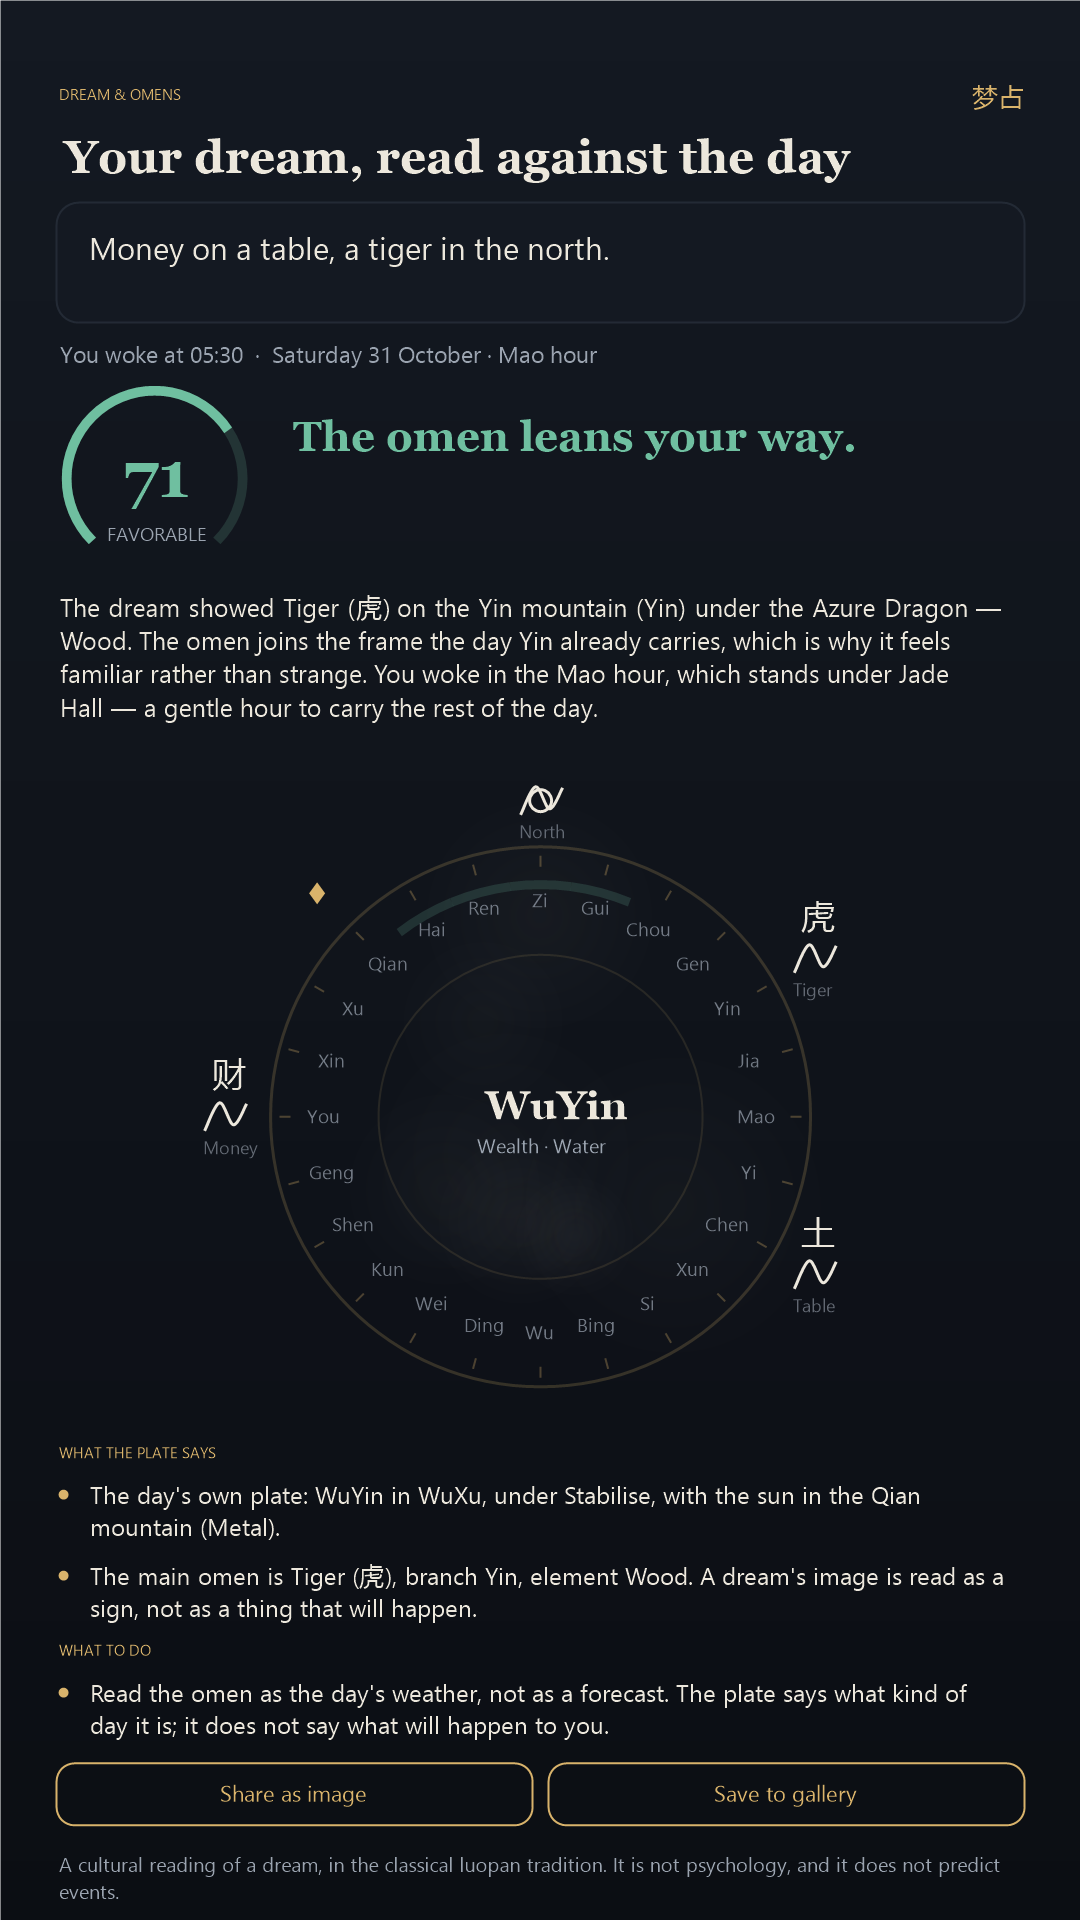
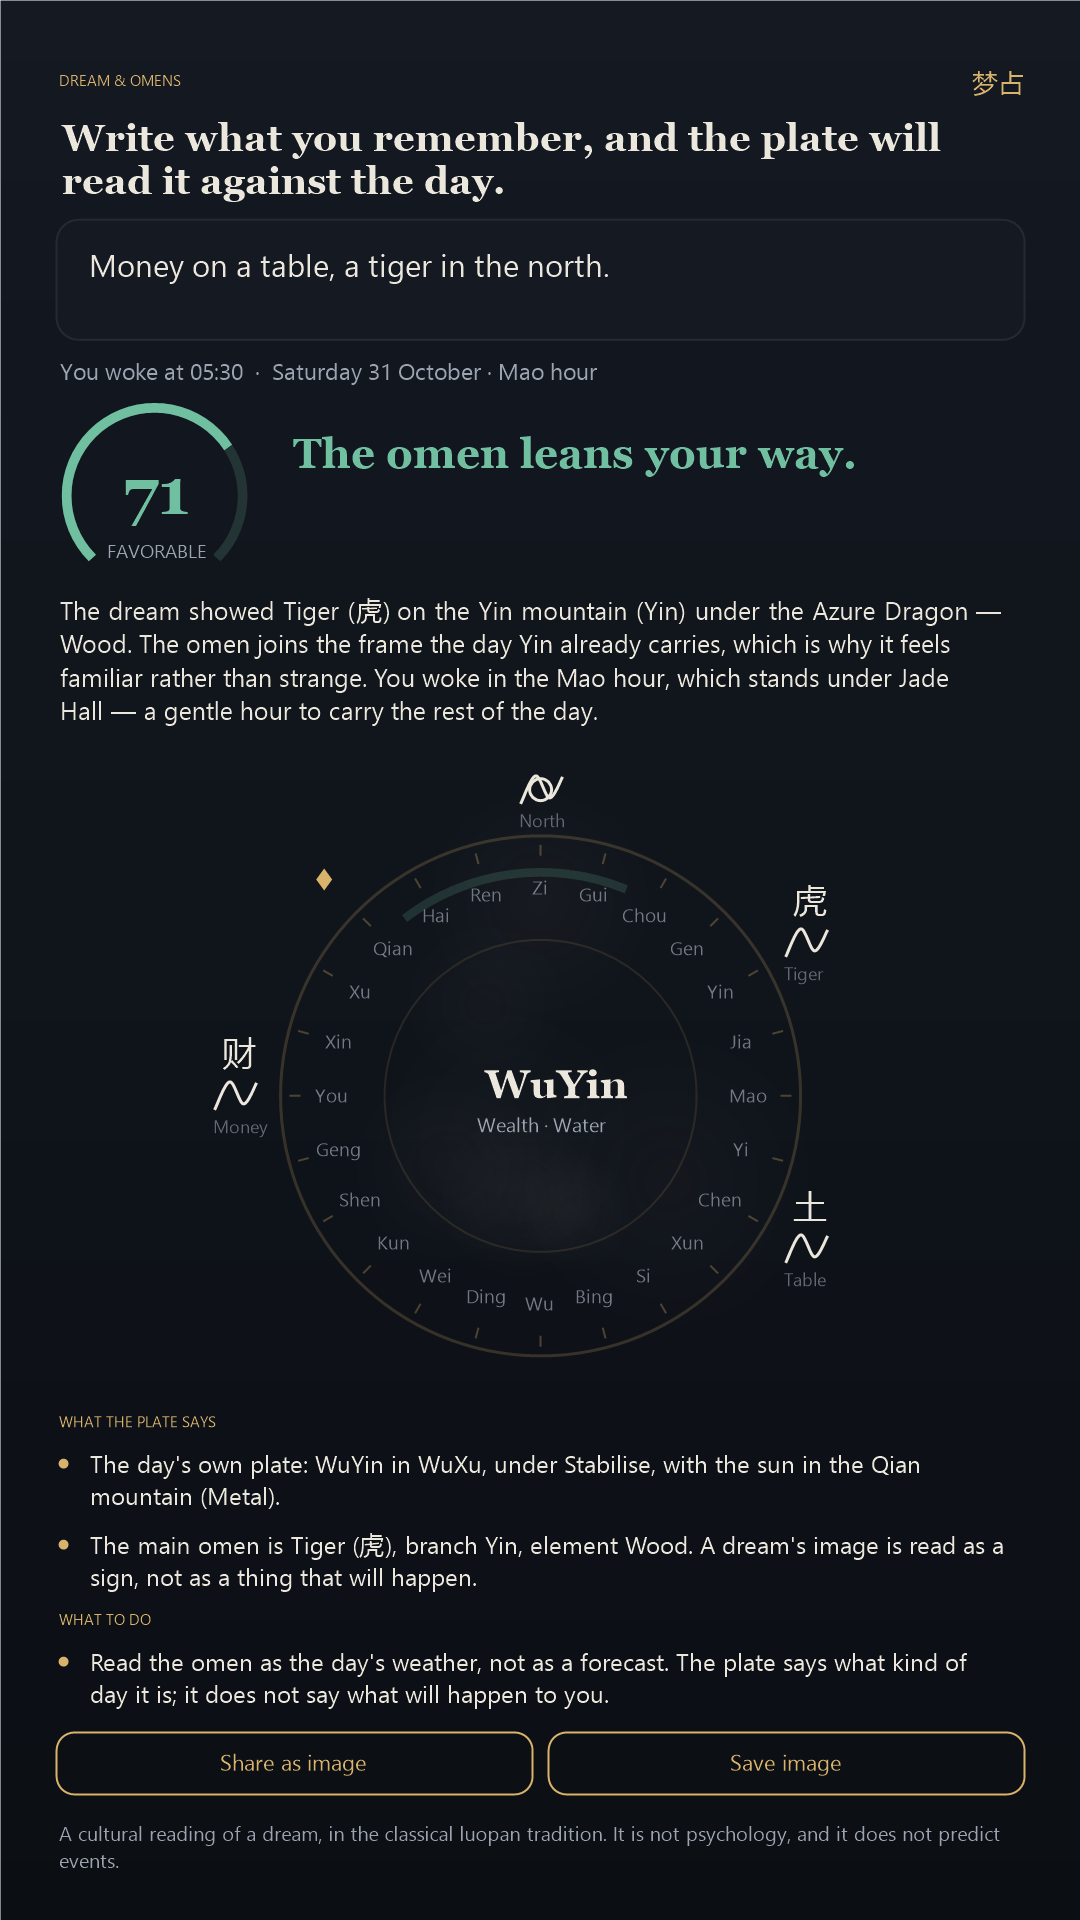
Keep the store screenshots honest about what the app says
The screenshots are drawn by a script, not captured from the app, so they
never followed it on their own - and they had drifted.

Two checks in the release gate now hold the two together:

- tools/qa/check_screenshot_sync.py reads the screenshot script and the app's
  own source and makes them agree in both directions. Every phrase the script
  draws has to exist in the app, so the store can never show a sentence the
  app does not say; and the sentences the app leads with - the free-reading
  banner, the anchor row, the paywall's benefits, the share buttons - have to
  reach the script, so a changed banner cannot leave the old one in the store.
- The gate draws the screenshots again into a scratch folder and compares the
  bytes. The render is byte-for-byte reproducible, so a PNG the current
  script no longer produces is caught.

Both directions were verified with a negative control: a script that draws
"Save to gallery" instead of the app's "Save image" fails, and so does an app
whose banner no longer matches the store.

The drift they found, fixed:

- the dream shot said "Save to gallery" while the app's button says "Save
  image";
- the dream shot led with "Your dream, read against the day", a headline the
  app never uses - it now carries the app's own title, "Write what you
  remember, and the plate will read it against the day.", wrapped over two
  lines, and the shot's spacing was tightened so the closing line still fits.
[…]

diff --git a/tools/qa/check_screenshot_sync.py b/tools/qa/check_screenshot_sync.py
@@ -1,0 +1,287 @@
+"""Checks that the store screenshots still say what the app says.
+
+The screenshots are not captures. They are drawn by
+`tools/store_assets/build_screenshots.ps1`, a GDI+ re-implementation of the
+Compose layout, and it does not follow the app: when a visible string changes
+in the app, the screenshot keeps the old wording. Play publishes the
+screenshot, so that drift is what a reader sees in the store - and it is the
+direction that hurts, because the store shows a product the app no longer is.
+
+The check runs in both directions:
+
+* **script -> app** — every phrase the script draws has to exist in the app's
+  own source. The store can never show a sentence the app does not say.
+* **app -> script** — the sentences the app leads with (the free-reading
+  banner, the anchor row, the paywall's benefits) have to exist in the
+  script, so a changed banner cannot leave the old one in the store.
+
+Exceptions are listed one by one, with a reason. Every exception is a
+decision on the record rather than a gap in the check.
+
+Usage:
+    python tools/qa/check_screenshot_sync.py
+    (exit code 0 = the screenshots still agree with the app, 1 = drift)
+"""
+
+import pathlib
+import re
+import sys
+
+ROOT = pathlib.Path(__file__).resolve().parents[2]
+
+SCRIPT = "tools/store_assets/build_screenshots.ps1"
+
+# The app's own wording lives in the UI layer; the module titles and the
+# verdicts come from the core model, because the screenshots draw those too.
+APP_FILES = [
+    "app/src/main/java/com/laki/daofortune/ui/HomeScreen.kt",
+    "app/src/main/java/com/laki/daofortune/ui/DateAndYearSign.kt",
+    "app/src/main/java/com/laki/daofortune/ui/ReadingSheet.kt",
+    "app/src/main/java/com/laki/daofortune/ui/DreamSheet.kt",
+    "app/src/main/java/com/laki/daofortune/ui/PaywallSheet.kt",
+    "app/src/main/java/com/laki/daofortune/ui/AboutSheet.kt",
+    "app/src/main/java/com/laki/daofortune/ui/share/ShareCard.kt",
+    "app/src/main/java/com/laki/daofortune/core/Model.kt",
+]
+
+# Phrases the script may draw that are not app copy, with the reason.
+ALLOWED = {
+    "segoe ui": "a font name, not copy",
+    "georgia": "a font name, not copy",
+    "microsoft yahei ui": "a font name, not copy",
+    "stop": "the PowerShell verb",
+    "free": "a screenshot mode, not copy",
+    "used": "a screenshot mode, not copy",
+    "unlocked": "a screenshot mode, not copy",
+    "docs\\store\\screenshots": "the output folder",
+    "docs\\store\\reading_sample.json": "the sample file the script reads",
+    "01_home.png": "an output file name",
+    "02_home_unlocked.png": "an output file name",
+    "03_favourable_days.png": "an output file name",
+    "04_windfall_reading.png": "an output file name",
+    "05_unlock.png": "an output file name",
+    "06_dream.png": "an output file name",
+    "unlock for $9.99": (
+        "the price comes from Play at runtime, so the screenshot has to show one "
+        "concrete figure; the app never hard-codes it"
+    ),
+    "asia/shanghai": (
+        "the screenshot pins one time zone; the app shows the device's own zone"
+    ),
+    "missing reading_sample.json - run the unit tests first": (
+        "a message to the console, not copy on a screen"
+    ),
+    "wrote": "a message to the console, not copy on a screen",
+    "*windfall*": "a filter that picks the module to draw, not copy",
+}
+
+
+def scan_ps(text):
+    """Walk a PowerShell script and return its string literals.
+
+    A plain regex cannot do this: an apostrophe inside a double-quoted string
+    ("TODAY'S READINGS") or inside a comment ("the app's header") would be
+    read as the start of a single-quoted string, and every later string would
+    be mis-paired. So the script is walked once, keeping track of whether a
+    quote is open and of where a comment starts.
+
+    Returns a list of (kind, literal) with kind either "single" or "double".
+    """
+    literals = []
+    i = 0
+    n = len(text)
+    while i < n:
+        ch = text[i]
+        if ch == "#":
+            while i < n and text[i] != "\n":
+                i += 1
+            continue
+        if ch == "'":
+            i += 1
+            buf = []
+            while i < n:
+                if text[i] == "'":
+                    if i + 1 < n and text[i + 1] == "'":
+                        buf.append("'")
+                        i += 2
+                        continue
+                    i += 1
+                    break
+                buf.append(text[i])
+                i += 1
+            literals.append(("single", "".join(buf)))
+            continue
+        if ch == '"':
+            i += 1
+            buf = []
+            while i < n:
+                if text[i] == '"':
+                    if i + 1 < n and text[i + 1] == '"':
+                        buf.append('"')
+                        i += 2
+                        continue
+                    i += 1
+                    break
+                buf.append(text[i])
+                i += 1
+            literals.append(("double", "".join(buf)))
+            continue
+        i += 1
+    return literals
+
+
+def unspace_letters(text):
+    """Turn the letter-spaced brand line back into words.
+
+    The script draws "D A I L Y   L U O P A N   W I S D O M" where the app
+    writes "Daily Luopan Wisdom".
+    """
+    return re.sub(r"(?:\b\w\b[ ]){2,}\b\w\b", lambda m: m.group(0).replace(" ", ""), text)
+
+
+def norm(text):
+    """Fold the differences that are not wording: case, spacing, dashes."""
+    text = unspace_letters(text)
+    text = text.replace("·", " ").replace("—", " ").replace("–", " ")
+    text = re.sub(r"\s+", " ", text)
+    return text.strip().lower()
+
+
+def norm_script(text):
+    """Normalise a PowerShell script for the app -> script direction.
+
+    A single-quoted string in PowerShell writes an apostrophe by doubling
+    it, so the script says "Today''s Fortune" where the app says
+    "Today's Fortune".
+    """
+    return norm(text.replace("''", "'"))
+
+
+def script_phrases(script):
+    """The phrases the screenshot script draws."""
+    phrases = []
+    for kind, literal in scan_ps(script):
+        if kind == "single":
+            phrases.append(literal)
+            continue
+        # A double-quoted string can hold interpolations; only the literal
+        # parts are copy.
+        text = re.sub(r"\$\([^)]*\)", "\x00", literal)
+        text = re.sub(r"\$[A-Za-z_][A-Za-z0-9_]*", "\x00", text)
+        for part in text.split("\x00"):
+            part = part.strip()
+            if part:
+                phrases.append(part)
+
+    seen = []
+    for phrase in phrases:
+        if phrase not in seen:
+            seen.append(phrase)
+    return seen
+
+
+def app_corpus():
+    """Everything the app says, as one searchable blob."""
+    parts = []
+    for rel in APP_FILES:
+        path = ROOT / rel
+        if not path.exists():
+            continue
+        text = path.read_text(encoding="utf-8")
+        # Join the pieces of a wrapped Kotlin string literal.
+        text = re.sub(r'"\s*\+\s*\n\s*"', " ", text)
+        parts.append(text)
+    return norm(" ".join(parts))
+
+
+# The sentences the app leads with. Each has to be in the screenshot script
+# as well, or the store keeps showing the old wording.
+MUST_REACH_THE_SCRIPT = [
+    (
+        "the free-reading banner, before the reading is spent",
+        "Today's Fortune is free every day, in full. Your first reading is free too",
+    ),
+    (
+        "the free-reading banner, after the reading is spent",
+        "Today's Fortune is free every day, in full. Your free reading has been used",
+    ),
+    (
+        "the anchor row",
+        "Add your birth day for a deeper reading",
+    ),
+    (
+        "the forward scan",
+        "The next sixty days, ranked by the windfall reading.",
+    ),
+    (
+        "the paywall's first benefit",
+        "Windfall, love, career and body in full",
+    ),
+    (
+        "the paywall's last benefit",
+        "No subscription, no ads, no account",
+    ),
+    (
+        "the paywall's small print",
+        "Payments are handled by Google Play. Your anchor stays on this device and is never transmitted.",
+    ),
+    (
+        "the share button",
+        "Share as image",
+    ),
+    (
+        "the save button",
+        "Save image",
+    ),
+]
+
+
+def main() -> int:
+    # The script path can be given on the command line, so the check can be
+    # pointed at a tampered copy - that is how the negative control is run.
+    script_rel = sys.argv[1] if len(sys.argv) > 1 else SCRIPT
+    script_path = ROOT / script_rel
+    if not script_path.exists():
+        print(f"[FAIL] missing {script_rel}")
+        return 1
+    script = script_path.read_text(encoding="utf-8")
+    corpus = app_corpus()
+
+    failures = []
+
+    print("=== script -> app: every drawn phrase must exist in the app ===")
+    for phrase in script_phrases(script):
+        key = norm(phrase)
+        if not key or len(key) < 3:
+            continue
+        if key in ALLOWED:
+            print(f"[PASS] allowed: {phrase[:70]}")
+            continue
+        if key in corpus:
+            print(f"[PASS] {phrase[:70]}")
+        else:
+            failures.append(
+                f"the screenshot draws a phrase the app does not say: {phrase!r}"
+            )
+
+    print()
+    print("=== app -> script: the app's leading sentences must reach the store ===")
+    script_norm = norm_script(script)
+    for name, phrase in MUST_REACH_THE_SCRIPT:
+        if norm(phrase) in script_norm:
+            print(f"[PASS] {name}")
+        else:
+            failures.append(f"{name} is not in the screenshot script any more: {phrase!r}")
+
+    for failure in failures:
+        print(f"[FAIL] {failure}")
+
+    if failures:
+        print("\nFAILED: the store screenshots and the app have drifted apart")
+        return 1
+    print("\nSCREENSHOT SYNC OK")
+    return 0
+
+
+if __name__ == "__main__":
+    sys.exit(main())

diff --git a/docs/TESTING.md b/docs/TESTING.md
@@ -138,6 +138,30 @@ not as a failure; a cancelled callback is not an error; and a purchase of some *
 unlocks anything. `BillingManager` uses the same function to decide whether it already owns the
 product, so the app has exactly one definition of "the reader owns it".
 
+### 1.9 The store screenshots
+
+The screenshots are drawn by `tools/store_assets/build_screenshots.ps1`, not captured from the app,
+so they do not follow it on their own. Two checks keep them honest, both inside the release gate:
+
+```powershell
+python tools\qa\check_screenshot_sync.py
+```
+
+* **script → app** — every phrase the script draws has to exist in the app's own source, so the store
+  can never show a sentence the app does not say.
+* **app → script** — the sentences the app leads with (the free-reading banner, the anchor row, the
+  paywall's benefits, the share buttons) have to reach the script.
+
+The gate also draws the screenshots again into a scratch folder and compares the bytes — the render
+is byte-for-byte reproducible, so a PNG that the current script no longer produces is caught:
+
+```powershell
+powershell -NoProfile -ExecutionPolicy Bypass -File tools\store_assets\build_screenshots.ps1 -OutDir build\_screens_check
+```
+
+Both directions were verified with a negative control: a script that draws `Save to gallery` instead
+of the app's `Save image` fails, and so does an app whose banner no longer matches the store.
+
 ---
 
 ## Layer 2 — On a real phone
@@ -323,6 +347,8 @@ Everything below must be true before an upload. If any line is unchecked, stop.
 | Signature present and valid | `keytool -printcert` | ☐ |
 | Source zip has no secrets | no `keystore.properties`, no `.jks` | ☐ |
 | Store folder is clean | `docs/store/screenshots/` holds exactly 6 PNGs | ☐ |
+| Store screenshots match the app | `python tools\qa\check_screenshot_sync.py` → SCREENSHOT SYNC OK | ☐ |
+| Store screenshots are current | the gate's byte comparison of a fresh render → all six match | ☐ |
 | Privacy policy page is current | `python tools\docs\make_privacy_html.py --check` | ☐ |
 | Copy matches the app | free previews / first free reading / one-off unlock / year sign / dream described the same way in the listing, the privacy policy and in-app | ☐ |
 | Real-device pass done | Layer 2 complete, including the purchase | ☐ |

diff --git a/AGENTS.md b/AGENTS.md
@@ -203,6 +203,16 @@ memory. Two traps in that script: PowerShell's comma operator binds tighter than
 concatenated array element needs its own parentheses; and `$h` clobbers `$H` because the shell is
 case-insensitive.
 
+**Two checks in the release gate keep the screenshots honest.**
+`tools/qa/check_screenshot_sync.py` reads the screenshot script and the app's own source and makes
+them agree **in both directions**: every phrase the script draws has to exist in the app, so the
+store can never show a sentence the app does not say, and the sentences the app leads with (the
+free-reading banner, the anchor row, the paywall's benefits) have to reach the script, so a changed
+banner cannot leave the old one in the store. And the gate draws the screenshots again into a
+scratch folder and compares the bytes — the render is byte-for-byte reproducible, so a PNG that the
+current script no longer produces is caught. When you change a visible string, change the script and
+regenerate in the same commit.
+
 `docs/store/screenshots/` must hold exactly the final PNGs — `01_home`, `02_home_unlocked`,
 `03_favourable_days`, `04_windfall_reading`, `05_unlock` and `06_dream` — that is the folder you upload
 to Play. Robolectric captures go to `build/screenshots/` instead, so a test run can never leave stray
